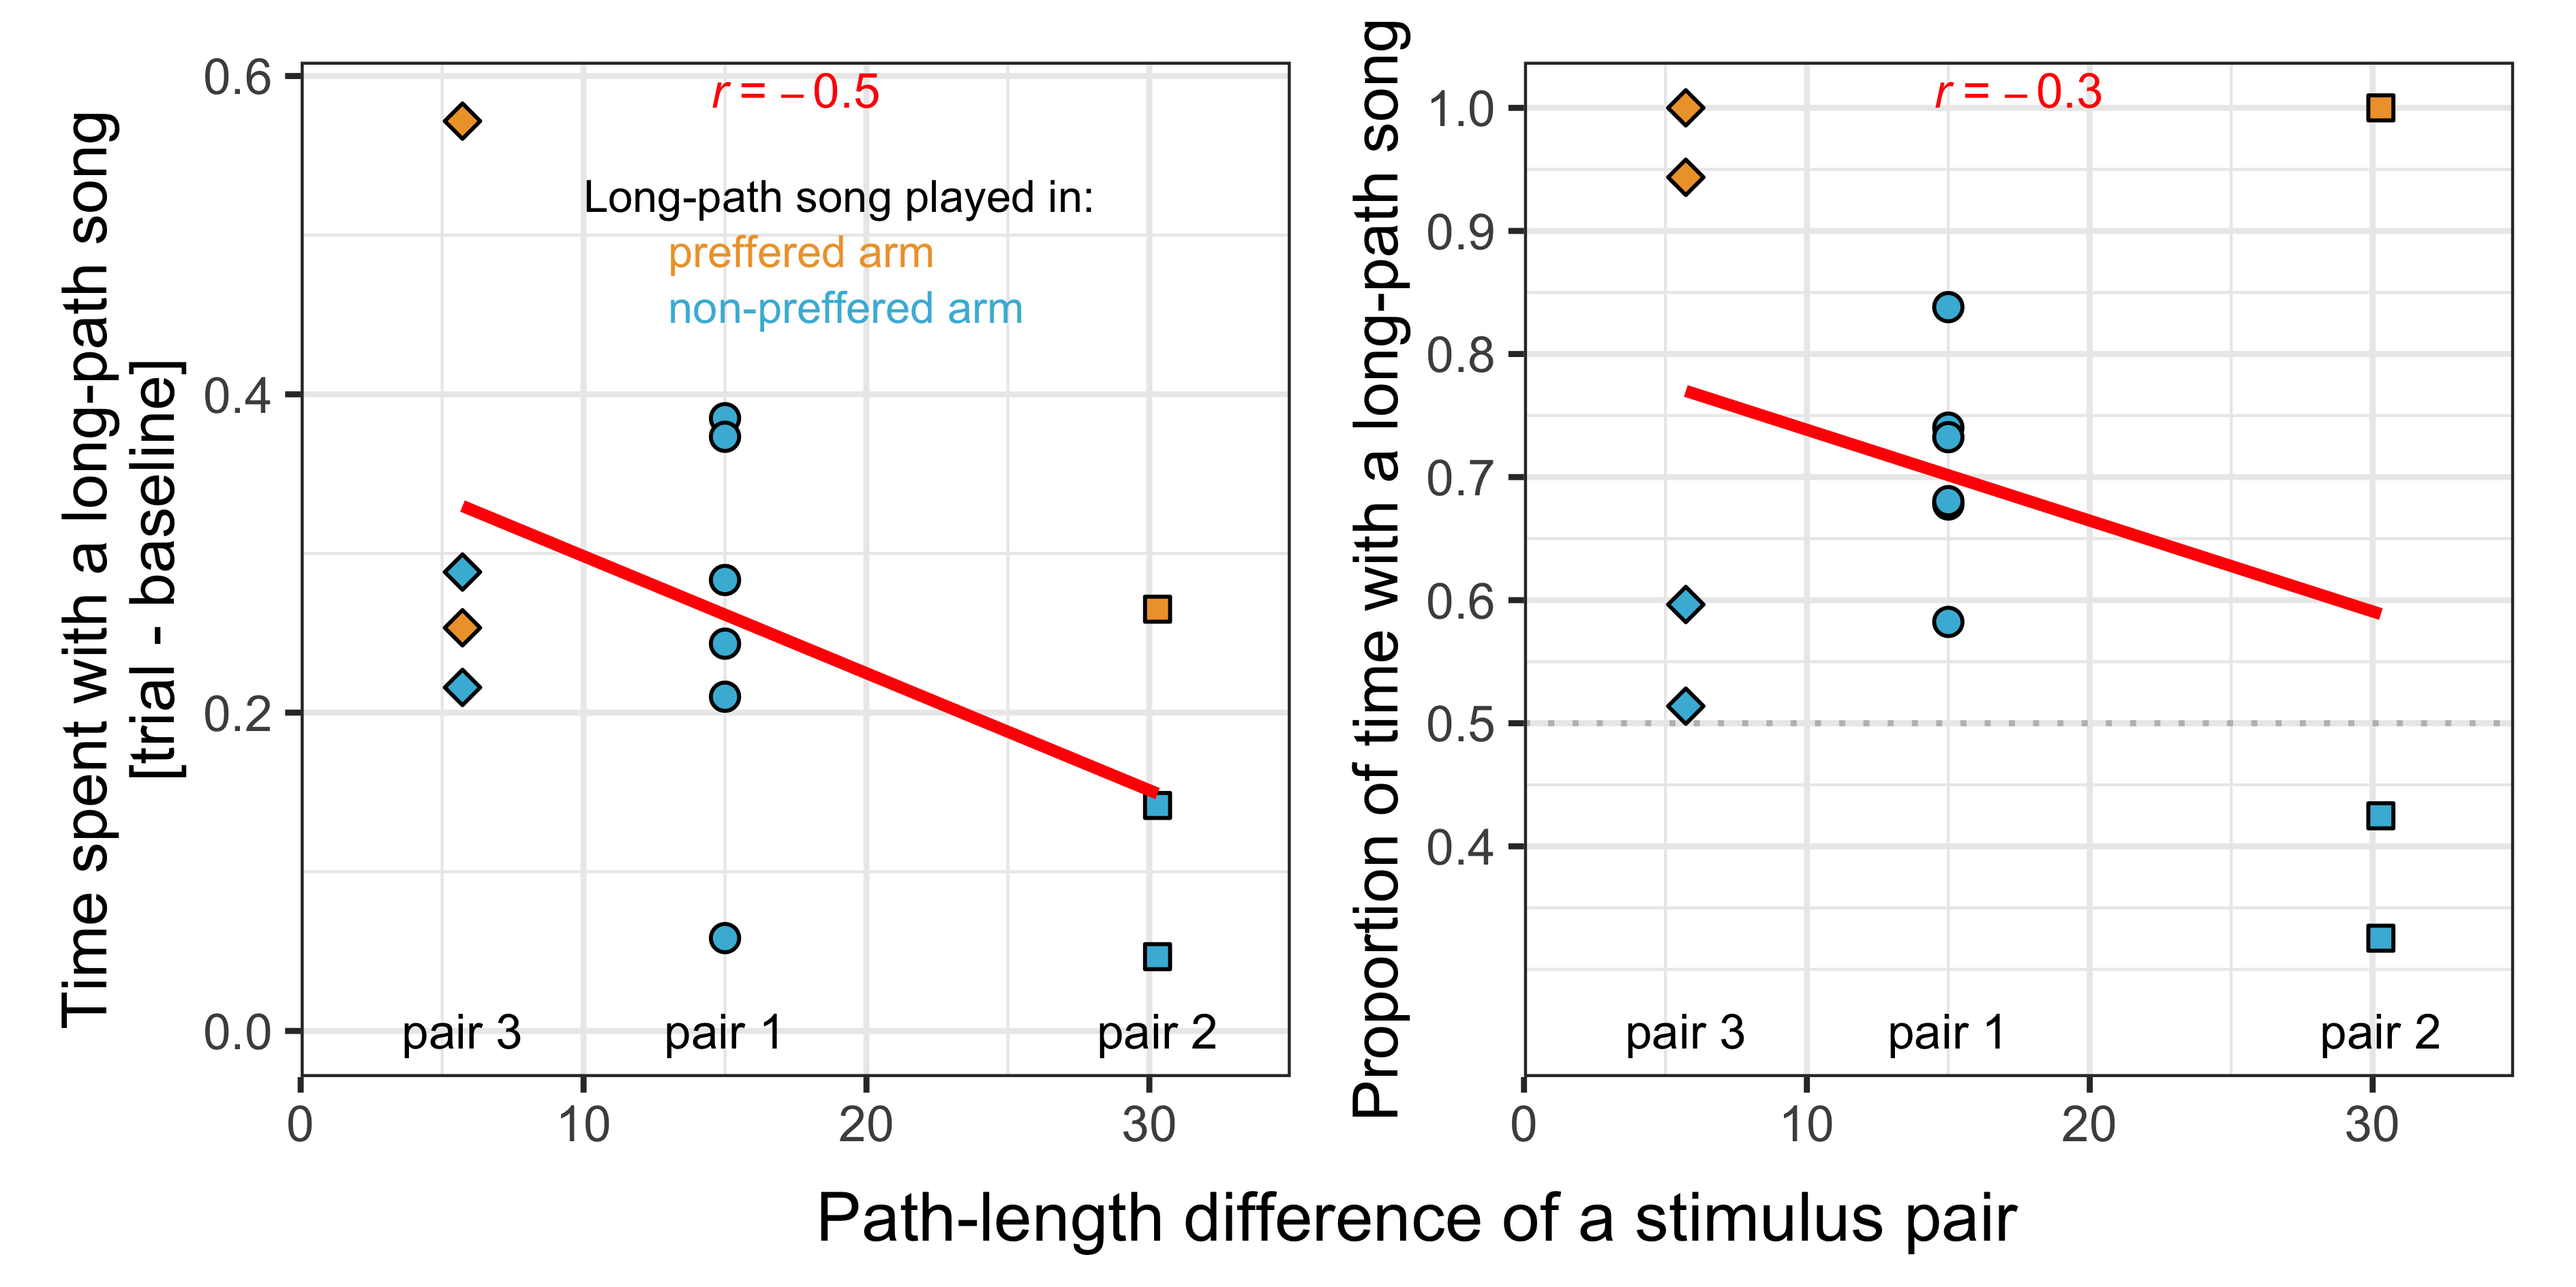
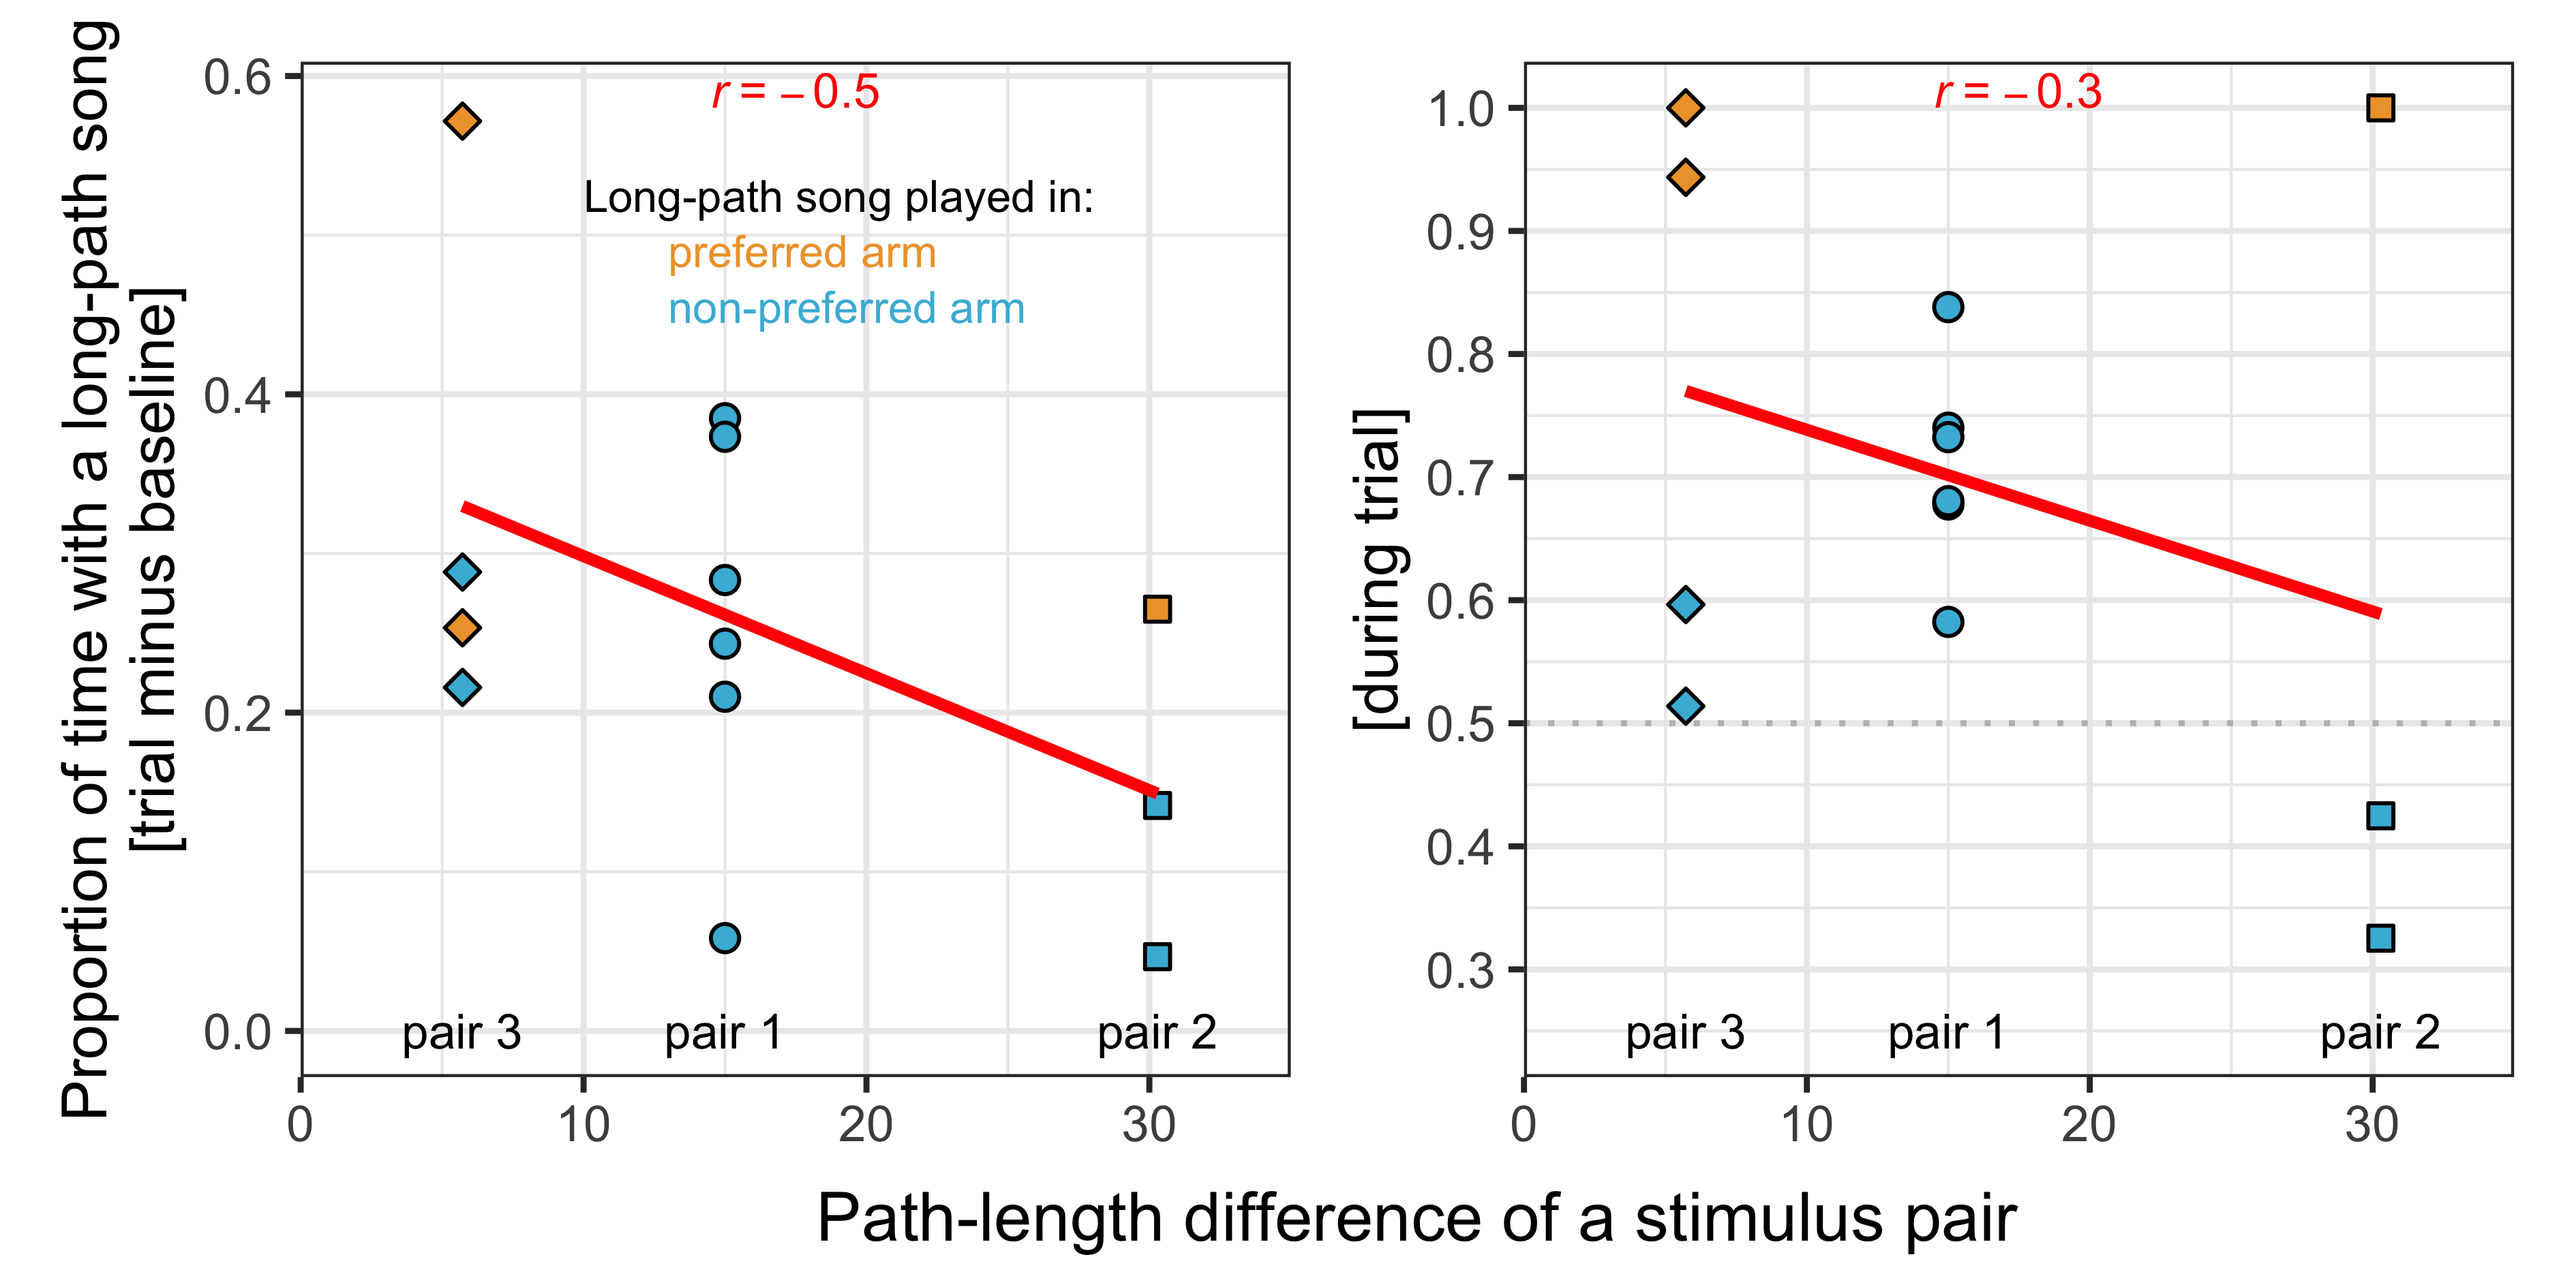
updated readme col def and fig labels

Changed region(s): [[0.0, 0.0, 0.0937, 0.8433], [0.5308, 0.0, 0.5933, 0.8745], [0.281, 0.1874, 0.4059, 0.2499]]

diff --git a/README.md b/README.md
@@ -5,11 +5,11 @@ When using this content **PLEASE CITE** the paper (link will be added soon)) and
 
 [Data](Data/):
 - [Fig_4c.csv](Data/Fig_4c.csv): source data provided by [Alam et al. (2024, *Nature*)](https://doi.org/10.1038/s41586-024-07207-4)
-- [rebuttal_fig_2.csv](Data/rebuttal_fig_2.csv): source data provided by [Alam et al. (2024, *Nature*)](https://doi.org/10.1038/s41586-024-07207-4) and data extracted by us from their supplementary material
+- [rebuttal_fig_2.csv](Data/rebuttal_fig_2.csv): source data provided by [Alam et al. (2024, *Nature*)](https://doi.org/10.1038/s41586-024-07207-4) and data measured by us from their Extended Data Fig. 6 (green versus black bars during playback)
 
 [R](R/)-scripts used in the analysis
-- [Fig_point_1.r](R/Fig_point_1.r) uses Fig_4c.csv and generates our Fig. 1
-- [Fig_point_2.r](R/Fig_point_2.r) uses rebuttal_fig_2.csv and generates our Fig. 2
+- [Fig_point_1.r](R/Fig_point_1.r) uses Fig_4c.csv and generates our Fig. 1; tutor - unique tutor ID, pupil - unique pupil ID for the given tutor, tutor_path - song path length of the tutor, pupil_path - song path length of the pupil
+- [Fig_point_2.r](R/Fig_point_2.r) uses rebuttal_fig_2.csv and generates our Fig. 2; trial_id - unique trial ID; side_bias - was the long-path song during the trial played in the *preferred arm* or *non-preferred arm* by the female during the baseline period?, song_pair - unique song-pair ID; long - path length of the long path song, short - path length of the short path song, pre - the percentage of pre-trial time spent in the arm where long path song will be played during the trial, trial -  the percentage of trial time spent in the arm with long path song, post - the percentage of post-trial time spent in the arm where long path song was  played during the trial, trial_long - trial time spent in the arm with long path song, trial_short - trial time spent in the arm with short path song
 
 [Output](Output/): contains the generated figures in png format
 
